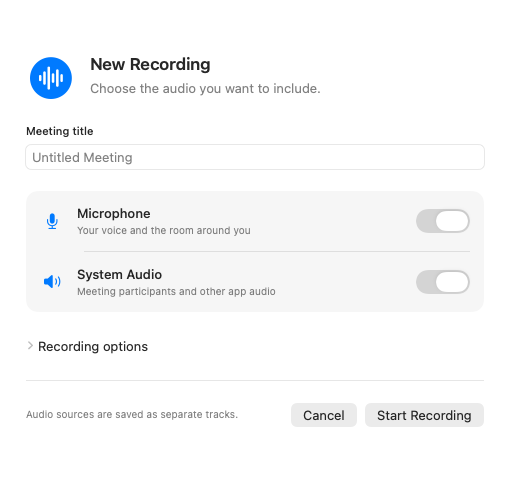
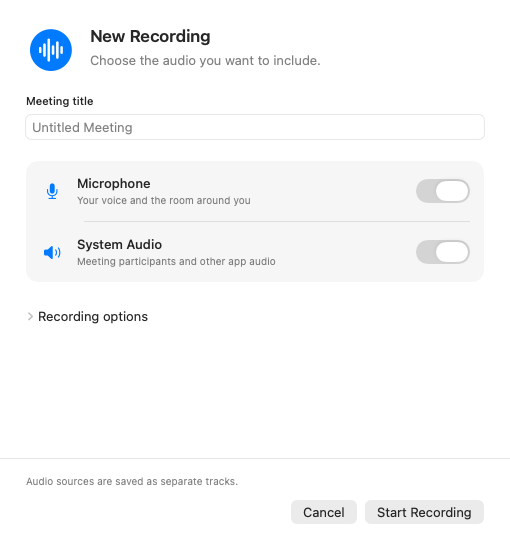
fix(macos): keep recording setup scrollable and actions visible

diff --git a/apps/client-macos-swift/Sources/GdayMeetings/UI/RecordingWorkspaceView.swift b/apps/client-macos-swift/Sources/GdayMeetings/UI/RecordingWorkspaceView.swift
@@ -16,17 +16,56 @@ struct RecordingSetupView: View {
     @ViewState private var startupError: String?
 
     var body: some View {
-        VStack(alignment: .leading, spacing: 22) {
-            HStack(alignment: .top, spacing: 14) {
-                Image(systemName: "waveform.circle.fill")
-                    .font(.system(size: 42)).foregroundStyle(.tint)
-                    .accessibilityHidden(true)
-                VStack(alignment: .leading, spacing: 5) {
-                    Text("New Recording").font(.title2.weight(.semibold))
-                    Text("Choose the audio you want to include.")
-                        .foregroundStyle(.secondary).fixedSize(horizontal: false, vertical: true)
+        VStack(alignment: .leading, spacing: 0) {
+            header.padding(.horizontal, 26).padding(.top, 26).padding(.bottom, 20)
+            // HIG Scroll views: make content beyond the available area reachable.
+            // Keep the sheet's title and completion actions outside the scrolling
+            // region so expanding options or showing an error can't hide them.
+            // https://developer.apple.com/design/human-interface-guidelines/scroll-views
+            ScrollViewReader { scroll in
+                ScrollView {
+                    form.padding(.horizontal, 26).padding(.bottom, 22)
+                }
+                .scrollIndicators(.visible)
+                .onChange(of: startupError) { _, error in
+                    if error != nil {
+                        // Reveal a new failure even when it appears below the fold.
+                        scroll.scrollTo("recording-startup-error", anchor: .bottom)
+                    }
                 }
             }
+            .frame(maxHeight: .infinity)
+            Divider()
+            actions.padding(.horizontal, 26).padding(.vertical, 16)
+        }
+        // A bounded ideal height keeps the sheet stable when options expand.
+        // The scroll region yields space when the presenting window is shorter.
+        .frame(width: 510)
+        .frame(minHeight: 400, idealHeight: 540, maxHeight: 620)
+        .interactiveDismissDisabled(store.isStartingRecording)
+        .onAppear {
+            microphone = store.settings.captureMicrophone
+            systemAudio = store.settings.captureSystemAudio
+            voiceProcessing = store.settings.microphoneVoiceProcessing
+            format = store.settings.recordingFormat
+        }
+    }
+
+    private var header: some View {
+        HStack(alignment: .top, spacing: 14) {
+            Image(systemName: "waveform.circle.fill")
+                .font(.system(size: 42)).foregroundStyle(.tint)
+                .accessibilityHidden(true)
+            VStack(alignment: .leading, spacing: 5) {
+                Text("New Recording").font(.title2.weight(.semibold))
+                Text("Choose the audio you want to include.")
+                    .foregroundStyle(.secondary).fixedSize(horizontal: false, vertical: true)
+            }
+        }
+    }
+
+    private var form: some View {
+        VStack(alignment: .leading, spacing: 22) {
             VStack(alignment: .leading, spacing: 7) {
                 Text("Meeting title").font(.subheadline.weight(.medium))
                 TextField("Untitled Meeting", text: $title)
@@ -55,12 +94,6 @@ struct RecordingSetupView: View {
                 }.padding(.top, 12)
             }
             .disabled(store.isStartingRecording)
-            if store.isStartingRecording {
-                HStack(spacing: 10) {
-                    ProgressView().controlSize(.small)
-                    Text("Preparing your recording…").foregroundStyle(.secondary)
-                }
-            }
             if let startupError {
                 // HIG Feedback: keep recoverable failure beside the action it affects,
                 // rather than attempting to present an alert behind this modal sheet.
@@ -72,11 +105,22 @@ struct RecordingSetupView: View {
                 .font(.callout).foregroundStyle(.secondary)
                 .padding(12).frame(maxWidth: .infinity, alignment: .leading)
                 .background(.quaternary.opacity(0.35), in: RoundedRectangle(cornerRadius: 8))
+                .id("recording-startup-error")
             }
-            Divider()
+        }
+        .frame(maxWidth: .infinity, alignment: .leading)
+    }
+
+    private var actions: some View {
+        VStack(alignment: .leading, spacing: 12) {
+            Text("Audio sources are saved as separate tracks.")
+                .font(.caption).foregroundStyle(.secondary)
+                .fixedSize(horizontal: false, vertical: true)
             HStack {
-                Text("Audio sources are saved as separate tracks.")
-                    .font(.caption).foregroundStyle(.secondary)
+                if store.isStartingRecording {
+                    ProgressView().controlSize(.small)
+                    Text("Preparing…").font(.callout).foregroundStyle(.secondary)
+                }
                 Spacer()
                 Button("Cancel") { dismiss() }.keyboardShortcut(.cancelAction)
                     .disabled(store.isStartingRecording)
@@ -111,14 +155,6 @@ struct RecordingSetupView: View {
                 .buttonStyle(.borderedProminent).keyboardShortcut(.defaultAction)
                 .disabled((!microphone && !systemAudio) || store.isBusy || store.isStartingRecording)
             }
-        }
-        .padding(26).frame(width: 510)
-        .interactiveDismissDisabled(store.isStartingRecording)
-        .onAppear {
-            microphone = store.settings.captureMicrophone
-            systemAudio = store.settings.captureSystemAudio
-            voiceProcessing = store.settings.microphoneVoiceProcessing
-            format = store.settings.recordingFormat
         }
     }
     private func sourceToggle(_ name: String, subtitle: String, symbol: String, value: Binding<Bool>) -> some View {

diff --git a/docs/worklogs/2026-09-24-swift-recording-sheet-scroll.md b/docs/worklogs/2026-09-24-swift-recording-sheet-scroll.md
@@ -1,0 +1,29 @@
+---
+date: 2026-09-24
+task: recording-setup-sheet-overflow
+status: implemented-and-packaged
+---
+
+## Problem
+
+Expanding Recording options increased the setup sheet's intrinsic height beyond its available space. The unscrollable VStack clipped its header and action row. Earlier visual checks rendered only the collapsed setup state and missed this failure.
+
+## Implemented solution
+
+`RecordingSetupView` now has a bounded height with a flexible vertical scroll region for its form. The title and the Cancel/Start Recording actions remain outside that region. Footer helper text gets its own line so it cannot crowd the buttons, and startup progress stays beside them. A newly arriving startup error scrolls into view without animation. The scroll-view HIG reference is cited beside the layout.
+
+## Reasoning
+
+Scrolling the variable-length content accommodates expanded options and lengthy startup errors without moving completion actions offscreen. Merely increasing the sheet's fixed height would retain the failure on shorter windows. The existing startup, consent, and saving behavior is unchanged.
+
+## Technical debt
+
+Native UI automation still fails with “Sky Computer Use native pipe startup failed.” Offscreen component validation cannot prove live sheet sizing or trackpad/keyboard scrolling; this validation gap is retained temporarily until the connection is restored or a user confirms the corrected app's behavior. No additional production compatibility bridge or schema debt.
+
+## Validation
+
+`make install-macos` succeeded with the final source: Command Line Tools release build, plist validation, ad-hoc signing, strict signature verification, refreshed installer bundle, and successful Finder-open command. The running app is the separate `/Applications` copy; it was not overwritten or quit.
+
+An independent agent rendered 12 expanded-options/error fixtures at 510×400, 510×480, and 510×600 in light/dark appearance, with top/bottom images for each. The short fixture had 358-point form content (494 with a long error) in a 224-point viewport; scrolling reached the format selector and full error while the header/footer stayed visible. Root inspected the short dark options and light error layouts.
+
+Changed-case checks with the final source confirmed that an asynchronously arriving error automatically scrolls into view, startup progress stays beside the disabled buttons at 400-point height, and collapsed setup has an ideal fitting size of exactly 510×540. Root inspected all three renders; selected previews are retained in the [design directory](../design/macos-recording/README.md). These are isolated offscreen component checks, not live interaction. No real library, credentials, recording, playback, or network requests were used.

diff --git a/docs/design/macos-recording/README.md b/docs/design/macos-recording/README.md
@@ -5,8 +5,11 @@ The [generated concept](recording-and-player-concept.png) and [exact prompt](ima
 Actual SwiftUI component renders:
 
 - [Recording setup](implemented-setup.png)
+- [Expanded setup scrolled to its options at 400-point height](implemented-setup-expanded-compact.png)
 - [Recording with notes](implemented-recording.png)
 - [Compact recording workspace in dark appearance](implemented-recording-compact-dark.png)
 - [Persistent player](implemented-player.png)
 
 These are offscreen renders with synthetic meeting data/source levels and a paused one-second silent audio fixture, not screenshots of a live meeting. Standard controls render with inactive-window gray styling; the active recording button uses the native red tint. The harness did not display windows, request permissions, play or record audio, use the real library, access credentials, or make network requests. It validated component layout, including a 440×550-point detail and 900-point player. Interactive keyboard/VoiceOver and full-window behavior remain to be verified when native UI automation is available.
+
+Setup regression checks also cover expanded options and long errors at 400/480/600-point heights in light/dark appearance, plus automatic scrolling to a new error and pinned startup progress. The form scrolls independently of its header and action buttons.
